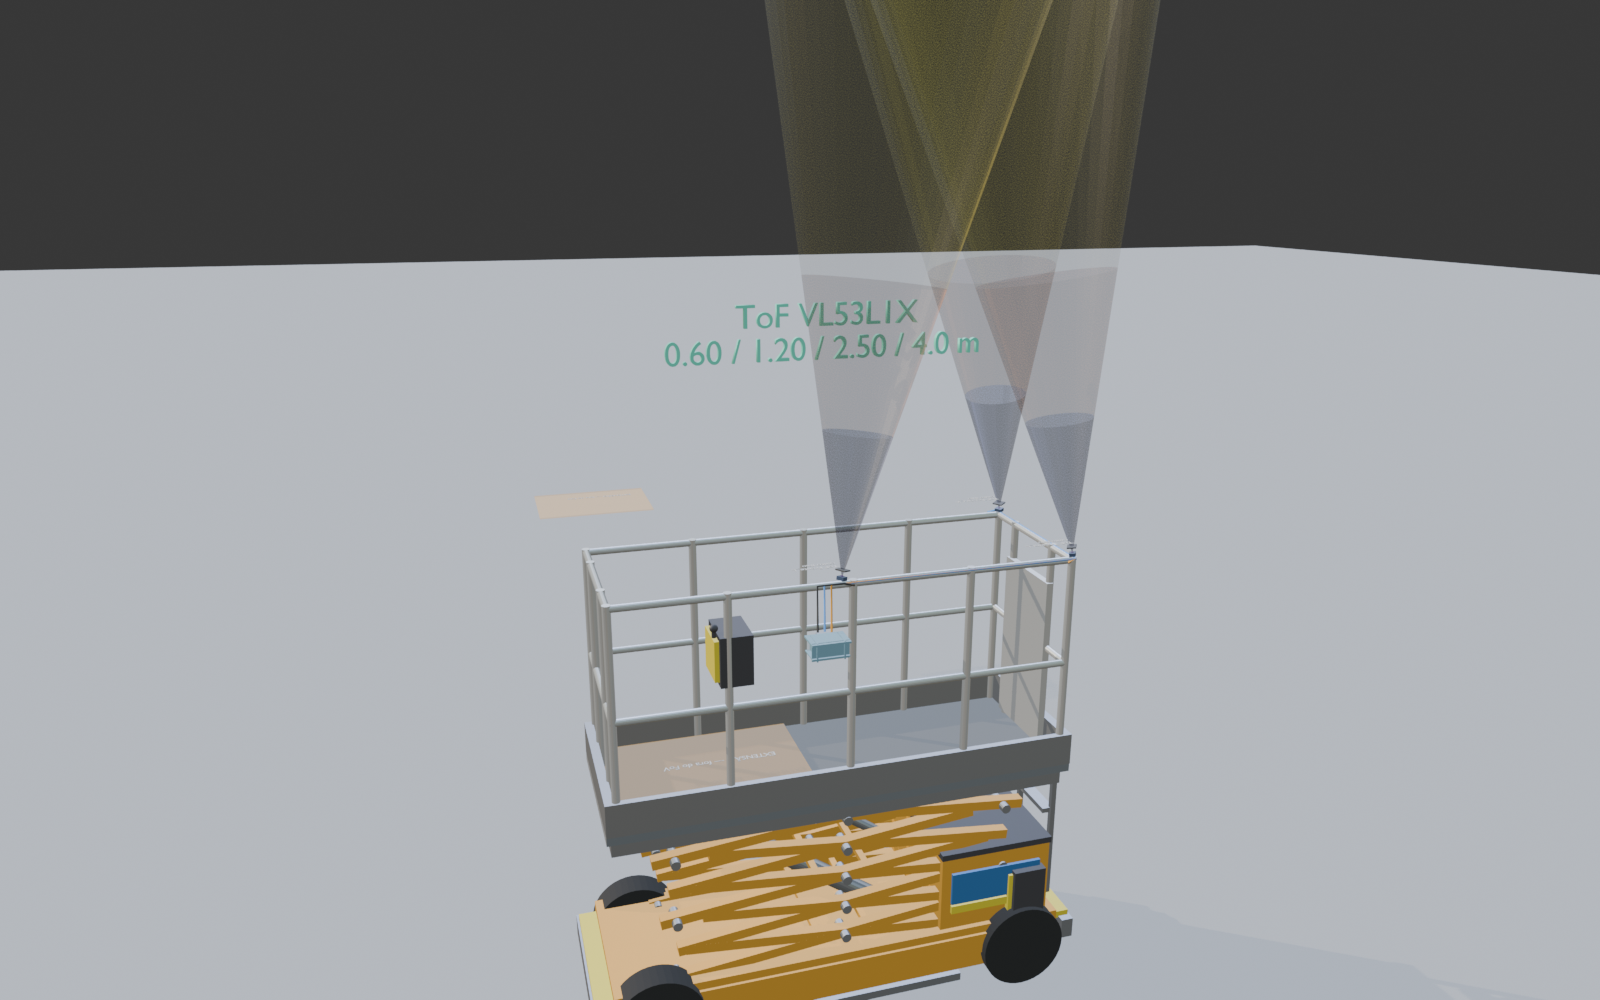
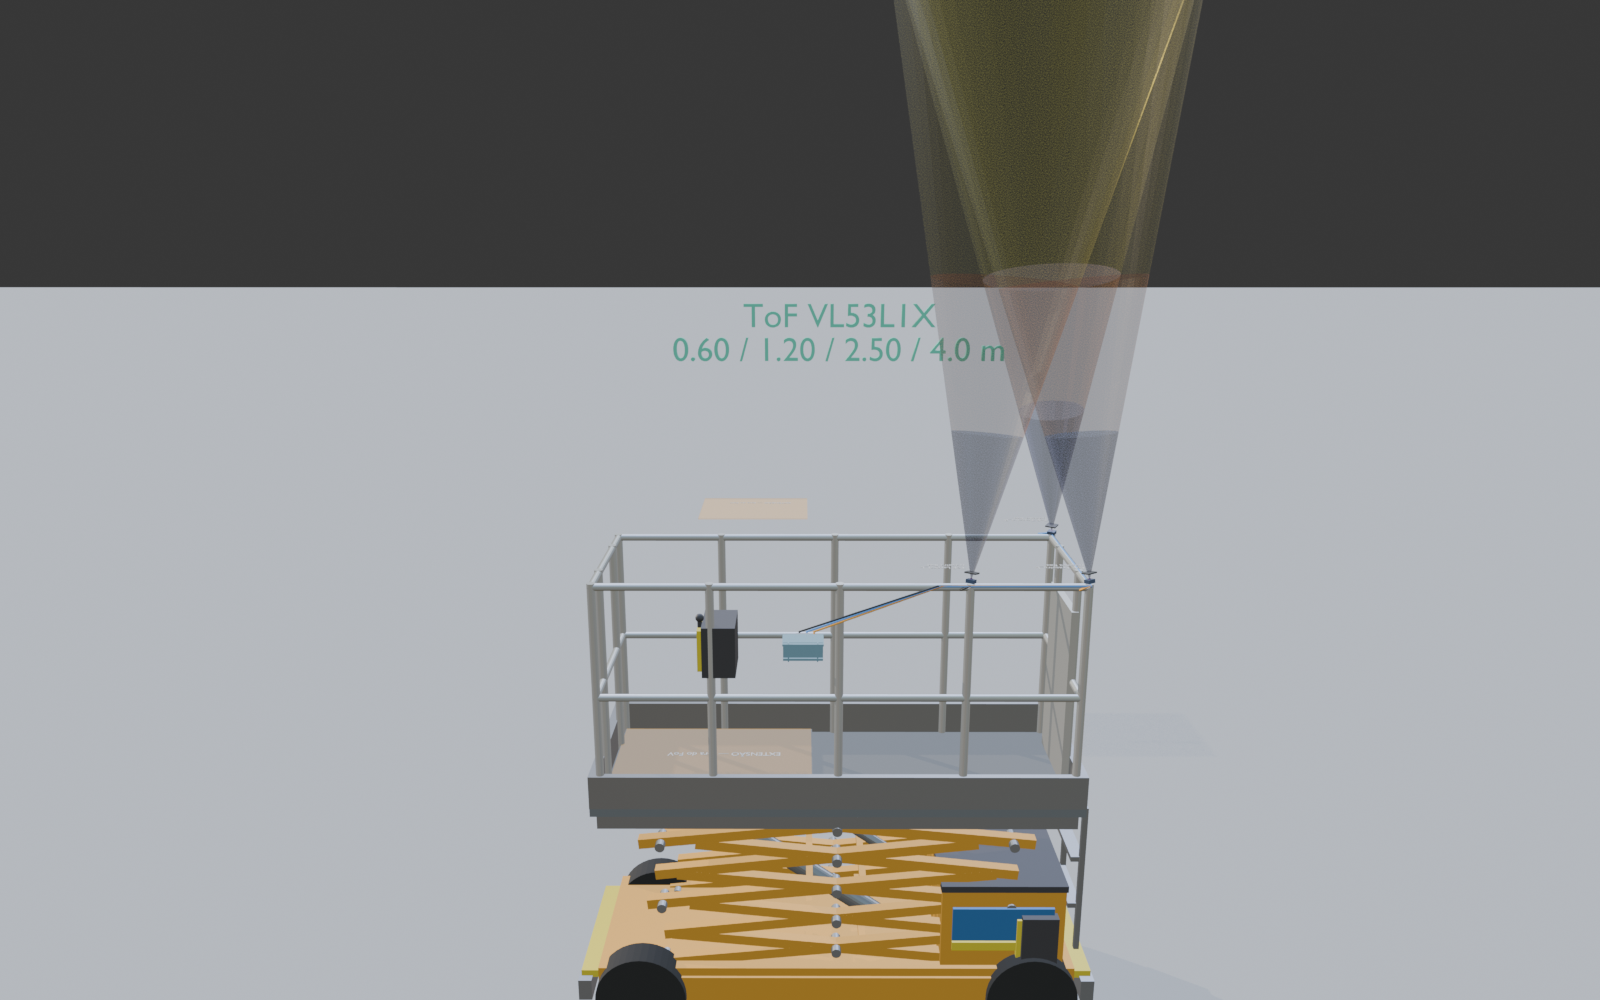
Keep all three sensors in the fixed rear third of the basket.
Remove the mid-rail pose at X~0.05 that looked centered when the deck is stowed, and mount the third unit on the rear-side post instead.

Changed region(s): [[0.0, 0.0, 1.0, 1.0], [0.625, 0.0, 0.6562, 0.124], [0.4688, 0.0, 0.5, 0.031]]

diff --git a/scripts/rebuild_sensor_corners.py b/scripts/rebuild_sensor_corners.py
@@ -1,45 +1,40 @@
 """
-SafeAlert — modelo forte de disposição (deck FIXO, só CANTOS do rail).
+SafeAlert — disposição CORRETA (só traseira do deck FIXO).
+
+Problema anterior: "Frente_L" em X≈0,05 parece o MEIO do rail longo
+quando a extensão está recolhida (o cesto inteiro vai de -1,015 a +1,015).
 
 Regras:
-  1) Sensores só no TOPO do guarda-corpo do deck PRINCIPAL.
-  2) Nunca no miolo do cesto (Y≈0 no meio) nem no meio do comprimento.
-  3) Nunca em X ≥ EXTENSAO_X (roll-out).
-  4) 3 cantos do retângulo fixo + cabo com laço de folga.
-  5) Eixo óptico ToF = local +Z.
+  1) Os 3 sensores ficam na METADE TRASEIRA (X <= -0,50).
+  2) Só em CANTOS ou POSTES do rail — nunca no vão livre do meio.
+  3) Nada em X >= EXTENSAO (0,105); na prática nada perto do roll-out.
+  4) Cabo com laço de folga.
+  5) ToF: eixo óptico = local +Z.
 
-Cantos (metros, Z = topo rail 2.16):
-  Traseira L: (-1.015, +0.355)
-  Traseira R: (-1.015, -0.355)
-  Frente L (limiar fixo): (+0.050, +0.355)
+Cantos/postes:
+  Traseira_L: (-1.015, +0.355)  Post canto traseiro +Y
+  Traseira_R: (-1.015, -0.355)  Post canto traseiro -Y
+  Lateral_L:  (-0.533, +0.355)  Post_2 no rail +Y (terço traseiro)
 """
 
 import bpy
 import math
-from mathutils import Vector, Matrix
+from mathutils import Vector
 
 EXT_X = 0.105
 TOP_Z = 2.16
 YOFF = 4.5
 FOV = 27.0
+X_MAX_SENSOR = -0.50  # duro: só traseira
 
-# Centro do deck FIXO (para leve convergência do FoV)
-CX = (-1.015 + 0.050) * 0.5  # ≈ -0.4825
+# Centro da zona instrumentada (traseira do fixo)
+CX = -0.774
 CY = 0.0
 
-
-def aim_toward_fixed_center(sx, sy, tilt_deg=9.0):
-    dx, dy = CX - sx, CY - sy
-    horiz = math.hypot(dx, dy) or 1.0
-    t = math.radians(tilt_deg)
-    return Vector((dx / horiz * math.sin(t), dy / horiz * math.sin(t), math.cos(t))).normalized()
-
-
-# (legacy_suffix, new_label, pos_US)
 CORNERS = [
     ("Esquerdo", "Traseira_L", Vector((-1.015, 0.355, TOP_Z))),
     ("Central", "Traseira_R", Vector((-1.015, -0.355, TOP_Z))),
-    ("Direito", "Frente_L", Vector((0.050, 0.355, TOP_Z))),
+    ("Direito", "Lateral_L", Vector((-0.533, 0.355, TOP_Z))),
 ]
 
 LAYERS = [
@@ -48,6 +43,15 @@ LAYERS = [
     ("Vermelho", 1.20, (0.95, 0.25, 0.15), 0.18),
     ("Bloqueio", 0.60, (0.25, 0.45, 0.95), 0.30),
 ]
+
+
+def aim_toward_center(sx, sy, tilt_deg=9.0):
+    dx, dy = CX - sx, CY - sy
+    horiz = math.hypot(dx, dy) or 1.0
+    t = math.radians(tilt_deg)
+    return Vector(
+        (dx / horiz * math.sin(t), dy / horiz * math.sin(t), math.cos(t))
+    ).normalized()
 
 
 def mat_alpha(name, color, alpha):
@@ -112,18 +116,18 @@ def rebuild_tof():
     M_BODY = mat_solid("ToF_Body", (0.08, 0.12, 0.22), 0.35, 0.2)
     M_WIN = mat_solid("ToF_Window", (0.15, 0.05, 0.25), 0.15, 0.0)
     M_HOOD = mat_solid("MVP_Hood", (0.1, 0.1, 0.1), 0.45, 0.0)
-
     cable_mats = {
         "Esquerdo": bpy.data.materials.get("MVP_Cable_Orange"),
         "Central": bpy.data.materials.get("MVP_Cable_Blue"),
         "Direito": bpy.data.materials.get("MVP_Cable_Black"),
     }
 
-    print("CORNER_MODEL ToF")
+    print("REAR_FIXED_MODEL ToF")
     for old, label, pos in CORNERS:
-        assert pos.x < EXT_X
+        assert pos.x <= X_MAX_SENSOR, pos
+        assert pos.x < EXT_X, pos
         world = pos + Vector((0, YOFF, 0))
-        direction = aim_toward_fixed_center(pos.x, pos.y)
+        direction = aim_toward_center(pos.x, pos.y)
         rot3 = direction.to_track_quat("Z", "Y").to_matrix()
 
         bpy.ops.object.empty_add(type="ARROWS", location=world)
@@ -132,13 +136,13 @@ def rebuild_tof():
         g.empty_display_size = 0.07
         g["corner"] = label
         g["fixed_deck_only"] = True
+        g["zone"] = "traseira_fixa"
         link(g, col)
         set_world(g, rot3, world)
         mw = g.matrix_world.copy()
         g.parent = root
         g.matrix_world = mw
 
-        # body — apply scale BEFORE matrix_world
         bpy.ops.mesh.primitive_cube_add(size=1, location=(0, 0, 0))
         body = bpy.context.active_object
         body.name = f"Sensor_ToF_{old}"
@@ -187,8 +191,8 @@ def rebuild_tof():
         bpy.ops.object.text_add(location=world + Vector((0.03, 0.03, 0.07)))
         lab = bpy.context.active_object
         lab.name = f"Label_Sensor_ToF_{old}"
-        lab.data.body = f"ToF {label}\ncanto fixo"
-        lab.data.size = 0.035
+        lab.data.body = f"ToF {label}\ntraseira fixa"
+        lab.data.size = 0.032
         lab.data.extrude = 0.001
         lab.rotation_euler = (math.radians(90), 0, 0)
         link(lab, col)
@@ -196,7 +200,6 @@ def rebuild_tof():
         lab.parent = root
         lab.matrix_world = mw
 
-        # hood
         bpy.ops.mesh.primitive_cube_add(size=1, location=(0, 0, 0))
         hood = bpy.context.active_object
         hood.name = f"MVP_Capuz_{old}"
@@ -204,19 +207,16 @@ def rebuild_tof():
         bpy.ops.object.transform_apply(location=False, rotation=False, scale=True)
         hood.data.materials.clear()
         hood.data.materials.append(M_HOOD)
-        if inst:
-            link(hood, inst)
-        else:
-            link(hood, col)
+        link(hood, inst if inst else col)
         hpos = world + direction * 0.035
         set_world(hood, rot3, hpos)
         mw = hood.matrix_world.copy()
         hood.parent = root
         hood.matrix_world = mw
 
-        print(f"  {label}: {tuple(round(v,3) for v in world)} aim={tuple(round(v,3) for v in direction)}")
+        print(f"  {label}: {tuple(round(v, 3) for v in world)} aim={tuple(round(v, 3) for v in direction)}")
 
-    # cables with slack loops (folga) along fixed rails only
+    # Cabos só na traseira + laço de folga
     esp = bpy.data.objects.get("MVP_ESP32")
     if esp and inst:
         B = esp.matrix_world.translation + Vector((0, 0, -0.04))
@@ -226,28 +226,27 @@ def rebuild_tof():
         for old, label, pos in CORNERS:
             tgt = pos + Vector((0, YOFF, 0))
             offs = {"Esquerdo": -0.03, "Central": 0.0, "Direito": 0.03}[old]
-            # path: gland → drip loop → rail → along fixed rails → small slack at sensor
             p0 = B + Vector((offs, 0, 0))
-            p_loop = B + Vector((offs, -0.08, 0.06))  # laço de folga perto da caixa
-            p_rail = Vector((B.x + offs, y_plus + 0.03, rail_z))
+            p_loop = B + Vector((offs, -0.10, 0.08))  # folga
+            p_rail = Vector((min(B.x, -0.4) + offs * 0.2, y_plus + 0.03, rail_z))
             pts = [p0, p_loop, p_rail]
             if old == "Esquerdo":
                 pts += [
                     Vector((-1.015, y_plus + 0.03, rail_z)),
-                    tgt + Vector((0.04, 0.04, -0.02)),
+                    tgt + Vector((0.05, 0.05, -0.02)),
                     tgt + Vector((0, 0, -0.02)),
                 ]
             elif old == "Central":
                 pts += [
                     Vector((-1.015, y_plus + 0.03, rail_z)),
                     Vector((-1.015, y_minus - 0.03, rail_z)),
-                    tgt + Vector((0.04, -0.04, -0.02)),
+                    tgt + Vector((0.05, -0.05, -0.02)),
                     tgt + Vector((0, 0, -0.02)),
                 ]
-            else:  # Frente_L
+            else:  # Lateral_L em X=-0.533, Y=+
                 pts += [
-                    Vector((0.05, y_plus + 0.03, rail_z)),
-                    tgt + Vector((-0.04, 0.04, -0.02)),
+                    Vector((-0.533, y_plus + 0.03, rail_z)),
+                    tgt + Vector((0.05, 0.05, -0.02)),
                     tgt + Vector((0, 0, -0.02)),
                 ]
             cd = bpy.data.curves.new(f"MVP_Cabo_{old}_d", "CURVE")
@@ -270,54 +269,52 @@ def rebuild_tof():
             o.matrix_world = mw
 
 
-def rebuild_us_aims():
-    """US legado: volumes no +X — reposiciona grupos nos 3 cantos."""
+def rebuild_us():
     root = bpy.data.objects["SJIII_3226_ROOT"]
-    print("CORNER_MODEL US")
+    print("REAR_FIXED_MODEL US")
     for old, label, pos in CORNERS:
         g = bpy.data.objects.get(f"Grupo_Sensor_{old}")
         if not g:
-            print("  missing", old)
             continue
-        direction = aim_toward_fixed_center(pos.x, pos.y)
-        # US mesh beam = local +X
+        direction = aim_toward_center(pos.x, pos.y)
         rot3 = direction.to_track_quat("X", "Z").to_matrix()
         mw = rot3.to_4x4()
         mw.translation = pos
         g.matrix_world = mw
+        g["corner"] = label
+        g["zone"] = "traseira_fixa"
         if g.parent != root:
             mw2 = g.matrix_world.copy()
             g.parent = root
             g.matrix_world = mw2
-        g["corner"] = label
         lab = bpy.data.objects.get(f"Label_Sensor_{old}")
         if lab:
             lab.parent = None
             lab.location = pos + Vector((0.03, 0.03, 0.07))
             lab.rotation_euler = (math.radians(90), 0, 0)
             lab.data.body = f"US {label}"
-            lab.data.size = 0.035
+            lab.data.size = 0.032
             mw = lab.matrix_world.copy()
             lab.parent = root
             lab.matrix_world = mw
-        print(f"  {label}: {tuple(round(v,3) for v in pos)}")
+        print(f"  {label}: {tuple(round(v, 3) for v in pos)}")
 
 
 def main():
     rebuild_tof()
-    rebuild_us_aims()
+    rebuild_us()
     bpy.context.view_layer.update()
     bpy.ops.wm.save_mainfile()
-    # sanity
     for old, label, pos in CORNERS:
         g = bpy.data.objects[f"Grupo_Sensor_ToF_{old}"]
         s = bpy.data.objects[f"Sensor_ToF_{old}"]
-        assert g.matrix_world.translation.x < EXT_X
-        assert abs(g.matrix_world.translation.y - (pos.y + YOFF)) < 0.02
+        t = g.matrix_world.translation
+        assert t.x <= X_MAX_SENSOR + 1e-3, t
         assert s.dimensions.x < 0.1
         z = g.matrix_world.to_3x3() @ Vector((0, 0, 1))
         assert z.z > 0.9
-    print("SANITY_PASS corner-only model")
+        print("OK", label, tuple(round(v, 3) for v in t))
+    print("SANITY_PASS rear-only corners")
 
 
 if __name__ == "__main__":

diff --git a/esp32_anti_esmagamento/config.h b/esp32_anti_esmagamento/config.h
@@ -40,9 +40,9 @@ static const float DIST_MIN_VALIDA_M = 0.03f;
 static const int NUM_SENSORES = 3;
 
 enum SensorId {
-  SENSOR_TRASEIRA_L = 0,  // canto traseiro +Y (fixo)
-  SENSOR_TRASEIRA_R = 1,  // canto traseiro -Y (fixo)
-  SENSOR_FRENTE_L   = 2   // canto dianteiro +Y do FIXO (antes do roll-out)
+  SENSOR_TRASEIRA_L = 0,  // canto traseiro +Y
+  SENSOR_TRASEIRA_R = 1,  // canto traseiro -Y
+  SENSOR_LATERAL_L  = 2   // poste no rail +Y, terço traseiro (X≈-0,53) — NÃO no meio do cesto
 };
 
 // --- Geometria do cesto (metros) — alinhada ao modelo SJIII 3226 ---
@@ -75,21 +75,21 @@ struct Vec3 {
   float x, y, z;
 };
 
-// MODELO FORTE: 3 CANTOS do rail do deck FIXO — nunca no miolo do cesto.
-//   Traseira L (-1.015, +0.355) | Traseira R (-1.015, -0.355) | Frente L fixa (0.05, +0.355)
-// Extender o roll-out não passa cabo sob tensão: instalação no fixo + laço de folga.
-// Blender ToF: eixo óptico = local +Z (= SENSOR_DIR). US legado: local +X.
+// MODELO FORTE: 3 pontos só na TRASEIRA do deck FIXO (X <= -0,50).
+// Nunca no miolo do rail longo (X≈0 parece “meio” com a extensão recolhida).
+//   Traseira L (-1.015,+0.355) | Traseira R (-1.015,-0.355) | Lateral L (-0.533,+0.355)
+// Extensão (+X) livre; cabos com laço de folga. ToF: +Z = SENSOR_DIR.
 static const Vec3 SENSOR_POS[NUM_SENSORES] = {
   { -1.015f,  0.355f, TOPO_RAIL_Z_M },  // Traseira L
   { -1.015f, -0.355f, TOPO_RAIL_Z_M },  // Traseira R
-  {  0.050f,  0.355f, TOPO_RAIL_Z_M }   // Frente L (limiar do fixo)
+  { -0.533f,  0.355f, TOPO_RAIL_Z_M }   // Lateral L (poste traseiro, não o meio)
 };
 
-// ~9° do vertical em direção ao centro do deck FIXO (não “caça” a extensão)
+// ~9° do vertical → centro da zona traseira instrumentada
 static const Vec3 SENSOR_DIR[NUM_SENSORES] = {
-  {  0.1302f, -0.0868f, 0.9877f },  // Traseira L → centro fixo
-  {  0.1302f,  0.0868f, 0.9877f },  // Traseira R → centro fixo
-  { -0.1302f, -0.0868f, 0.9877f }   // Frente L  → centro fixo
+  {  0.0879f, -0.1294f, 0.9877f },  // Traseira L
+  {  0.0879f,  0.1294f, 0.9877f },  // Traseira R
+  { -0.0879f, -0.1294f, 0.9877f }   // Lateral L
 };
 
 // --- Pinos (SafeAlert MVP: evoluir para I2C + TCA9548A) ---

diff --git a/README.md b/README.md
@@ -51,24 +51,23 @@ A SJIII 3226 tem **roll-out** (~0,9 m em +X). Neste protótipo a cobertura é **
 | Cabo com **laço de folga** (perto da caixa IP65 + no sensor) | Folga mecânica se algo puxar; extensão não tensiona o harness |
 | Envelope em `config.h` corta em `EXTENSAO_X_INICIO_M` | Hits acima da extensão → `FORA_ESCOPO` |
 
-**Cantos (modelo forte):**
+**Cantos (modelo forte — só traseira):**
 
 ```text
         +Y
          ^
-  TL ●───────────────● FL     ← Frente L = limiar do FIXO (X≈0,05)
-     │   DECK FIXO    │
-  TR ●───────────────┘        ← extensão (+X) começa em X≳0,105 — SEM sensor
-         (traseira)
+  TL ●──●── (Lateral_L em X≈-0,53)
+     │  traseira FIXA
+  TR ●─────────────→ +X (extensão longe, SEM sensor)
 ```
 
-| ID | Canto | Pose |
-|----|-------|------|
-| `SENSOR_TRASEIRA_L` | Traseira +Y | `(-1,015 · +0,355 · 2,16)` |
-| `SENSOR_TRASEIRA_R` | Traseira −Y | `(-1,015 · −0,355 · 2,16)` |
-| `SENSOR_FRENTE_L` | Frente fixa +Y | `(+0,050 · +0,355 · 2,16)` |
+| ID | Onde | Pose |
+|----|------|------|
+| `SENSOR_TRASEIRA_L` | Canto traseiro +Y | `(-1,015 · +0,355 · 2,16)` |
+| `SENSOR_TRASEIRA_R` | Canto traseiro −Y | `(-1,015 · −0,355 · 2,16)` |
+| `SENSOR_LATERAL_L` | Poste no rail +Y (terço traseiro) | `(-0,533 · +0,355 · 2,16)` |
 
-No Blender: placa âmbar `Zona_Extensao_*` + script `scripts/rebuild_sensor_corners.py`.
+Nada em `X > -0,50` (evita o “meio” do rail com a extensão recolhida).
 
 **Limite explícito:** com o deck estendido, obstáculos **acima da extensão** não são o alvo deste MVP.
 
@@ -154,16 +153,15 @@ Braço/ferramenta no FoV pode parecer obstáculo.
 
 ### 3) Cobertura do volume do cesto
 
-**Modelo forte:** 3 sensores nos **cantos do rail** do deck fixo (FoV ~27°, eixo ToF = +Z):
+**Modelo forte:** 3 sensores só na **traseira** do deck fixo (cantos/poste — nunca no meio do rail longo):
 
-| Sensor | Canto | Pose `(X, Y, Z)` m |
-|--------|-------|-------------------|
-| `SENSOR_TRASEIRA_L` | Traseira +Y | `(-1,015 · +0,355 · 2,16)` |
-| `SENSOR_TRASEIRA_R` | Traseira −Y | `(-1,015 · −0,355 · 2,16)` |
-| `SENSOR_FRENTE_L` | Frente fixa +Y | `(+0,050 · +0,355 · 2,16)` |
+| Sensor | Onde | Pose `(X, Y, Z)` m |
+|--------|------|-------------------|
+| `SENSOR_TRASEIRA_L` | Canto traseiro +Y | `(-1,015 · +0,355 · 2,16)` |
+| `SENSOR_TRASEIRA_R` | Canto traseiro −Y | `(-1,015 · −0,355 · 2,16)` |
+| `SENSOR_LATERAL_L` | Poste rail +Y (terço traseiro) | `(-0,533 · +0,355 · 2,16)` |
 
-Apontamento: ~9° do vertical para o **centro do deck fixo**.  
-Proibido: miolo do cesto, meio do comprimento, qualquer `X ≥ 0,105` (extensão).
+Todos com `X ≤ -0,50`. Extensão e miolo do cesto livres.
 
 > Script de rebuild: `scripts/rebuild_sensor_corners.py`
 
@@ -370,8 +368,7 @@ Se estourar o teto: use **ESP32-WROOM-32 DevKit** (~R$ 35–50) no lugar do S3.
            |
     ┌──────┼──────────────┐
   ToF S1          ToF S2          ToF S3
-  Traseira L      Traseira R      Frente L (fixo)
-  (canto)         (canto)         (canto, antes da extensão)
+  Traseira L      Traseira R      Lateral L (poste traseiro)
 ```
 
 **Notas:** I2C não gosta de cabo longo — use Cat6, clock baixo (~50 kHz) e GND comum 3V3/5V. O firmware atual ainda lê HC-SR04 por GPIO; a porta para VL53L1X+TCA9548A está no roadmap. Cabos só no rail do **deck fixo**, com **laço de folga** — estender o roll-out não puxa a instalação MVP.
@@ -416,9 +413,9 @@ Se estourar o teto: use **ESP32-WROOM-32 DevKit** (~R$ 35–50) no lugar do S3.
 | `Volume_ToF_Vermelho_*` | **1,2 m** | vermelho | aperto + buzzer — ainda sobe |
 | `Volume_ToF_Bloqueio_*` | **0,6 m** | azul | **bloqueio** (iminente) |
 
-Empties de apuntamento (3 **cantos** do deck fixo, `X < 0,105 m`):
+Empties (só traseira fixa, `X ≤ -0,50`):
 
-- US / ToF: `Grupo_Sensor_*` / `Grupo_Sensor_ToF_*` com custom prop `corner` = `Traseira_L` | `Traseira_R` | `Frente_L`
+- `corner` = `Traseira_L` | `Traseira_R` | `Lateral_L`
 
 ---
 